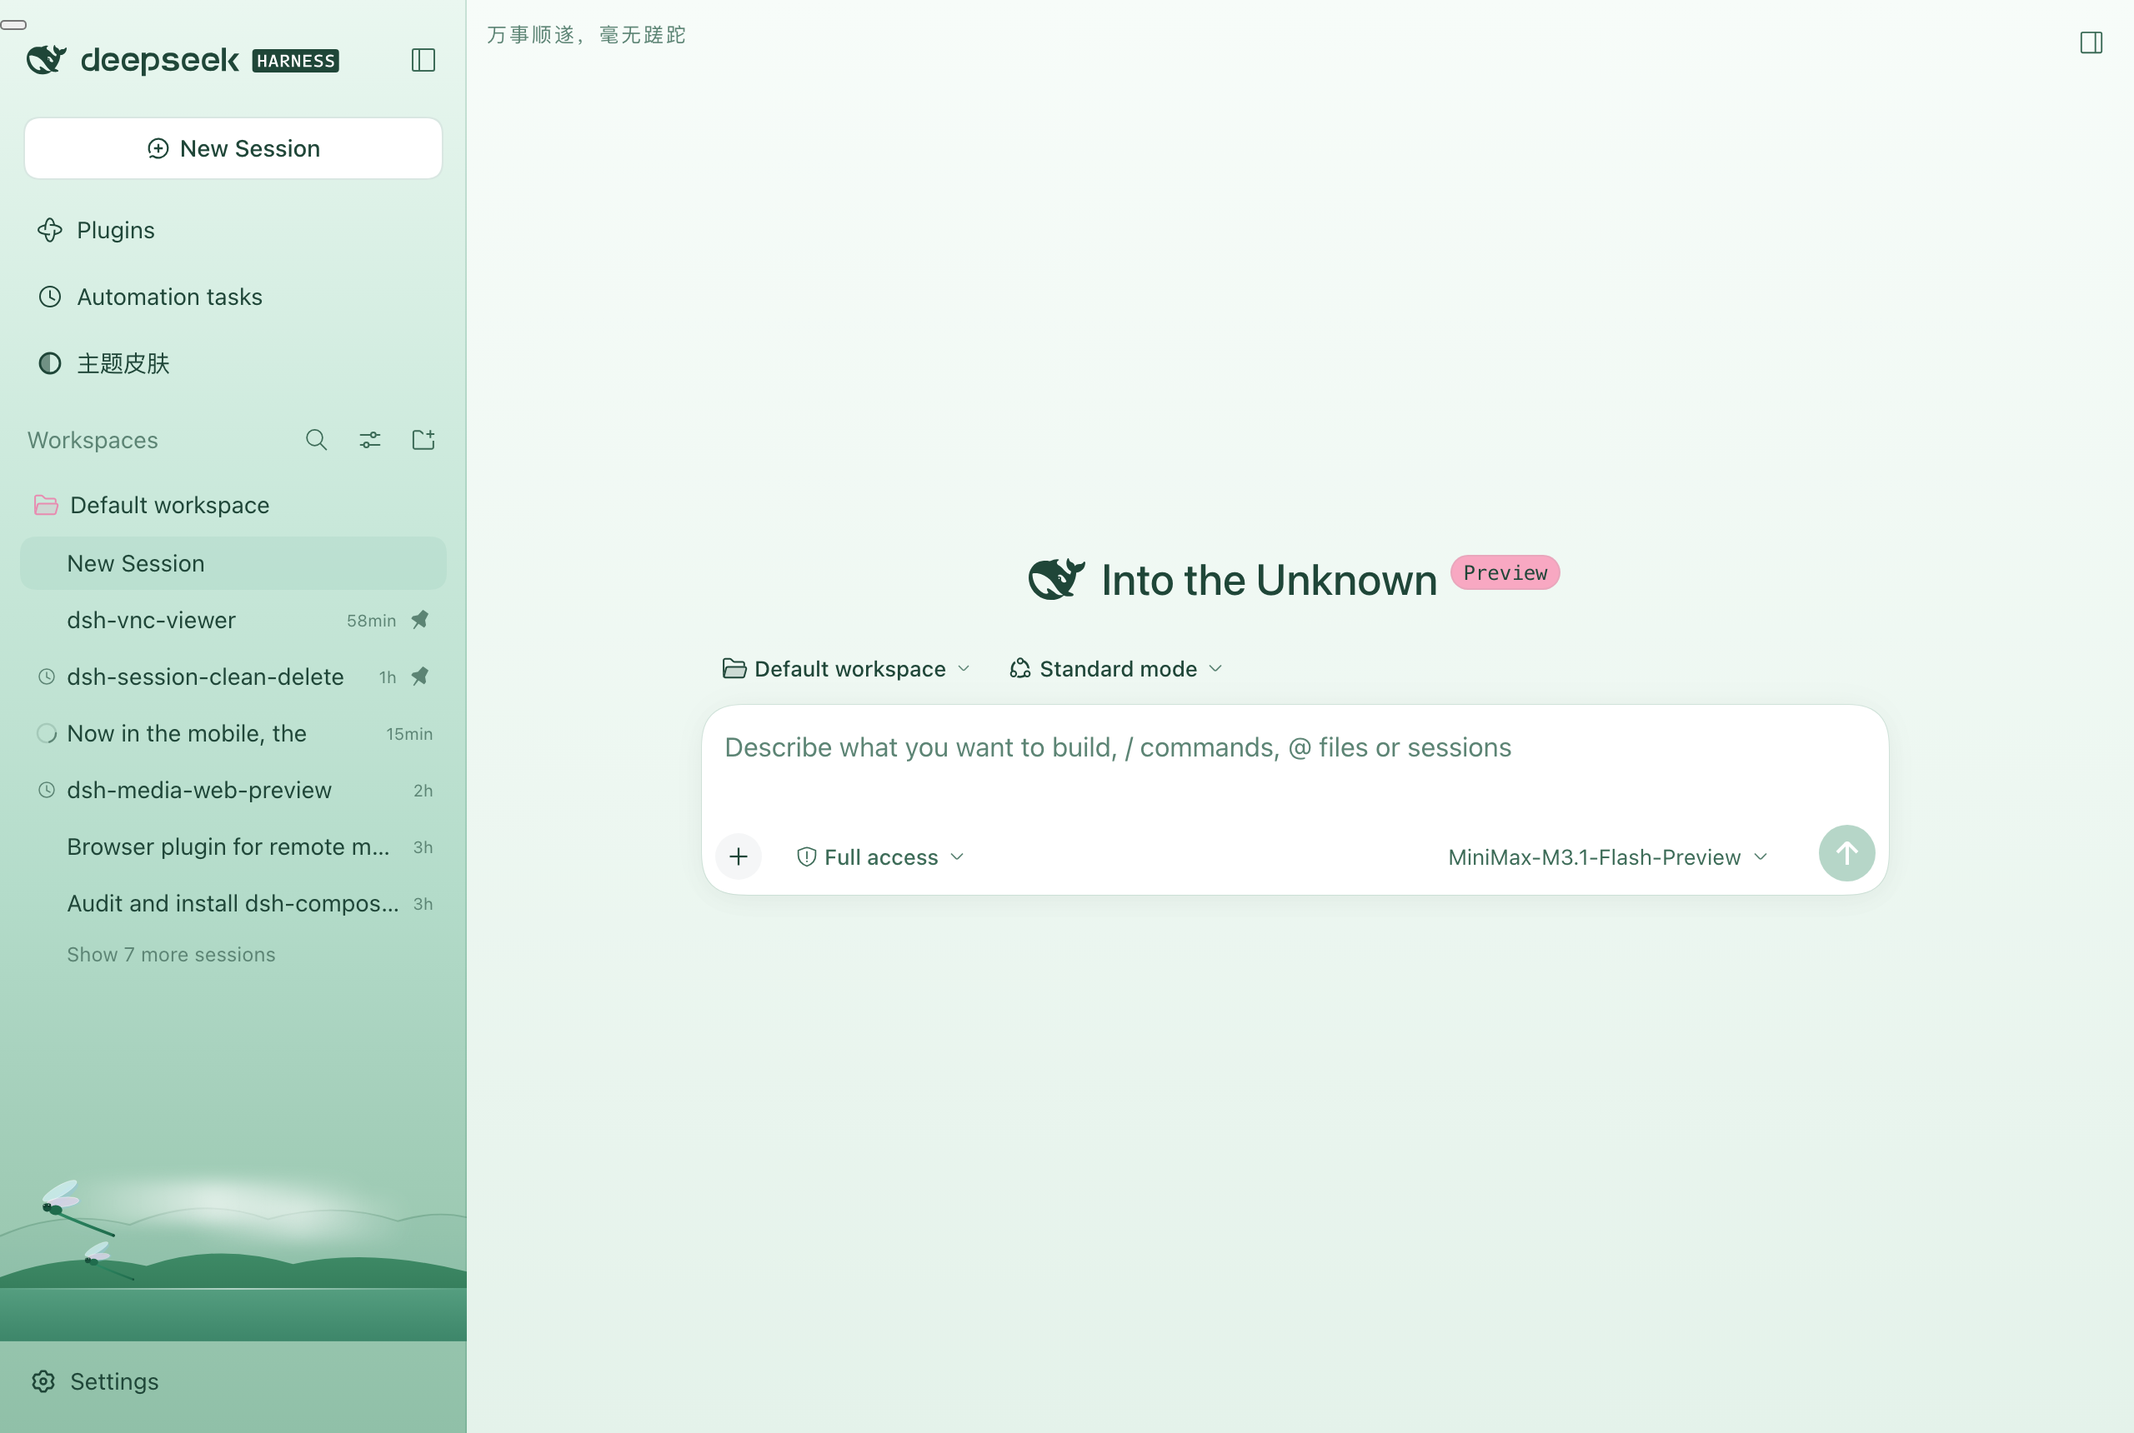
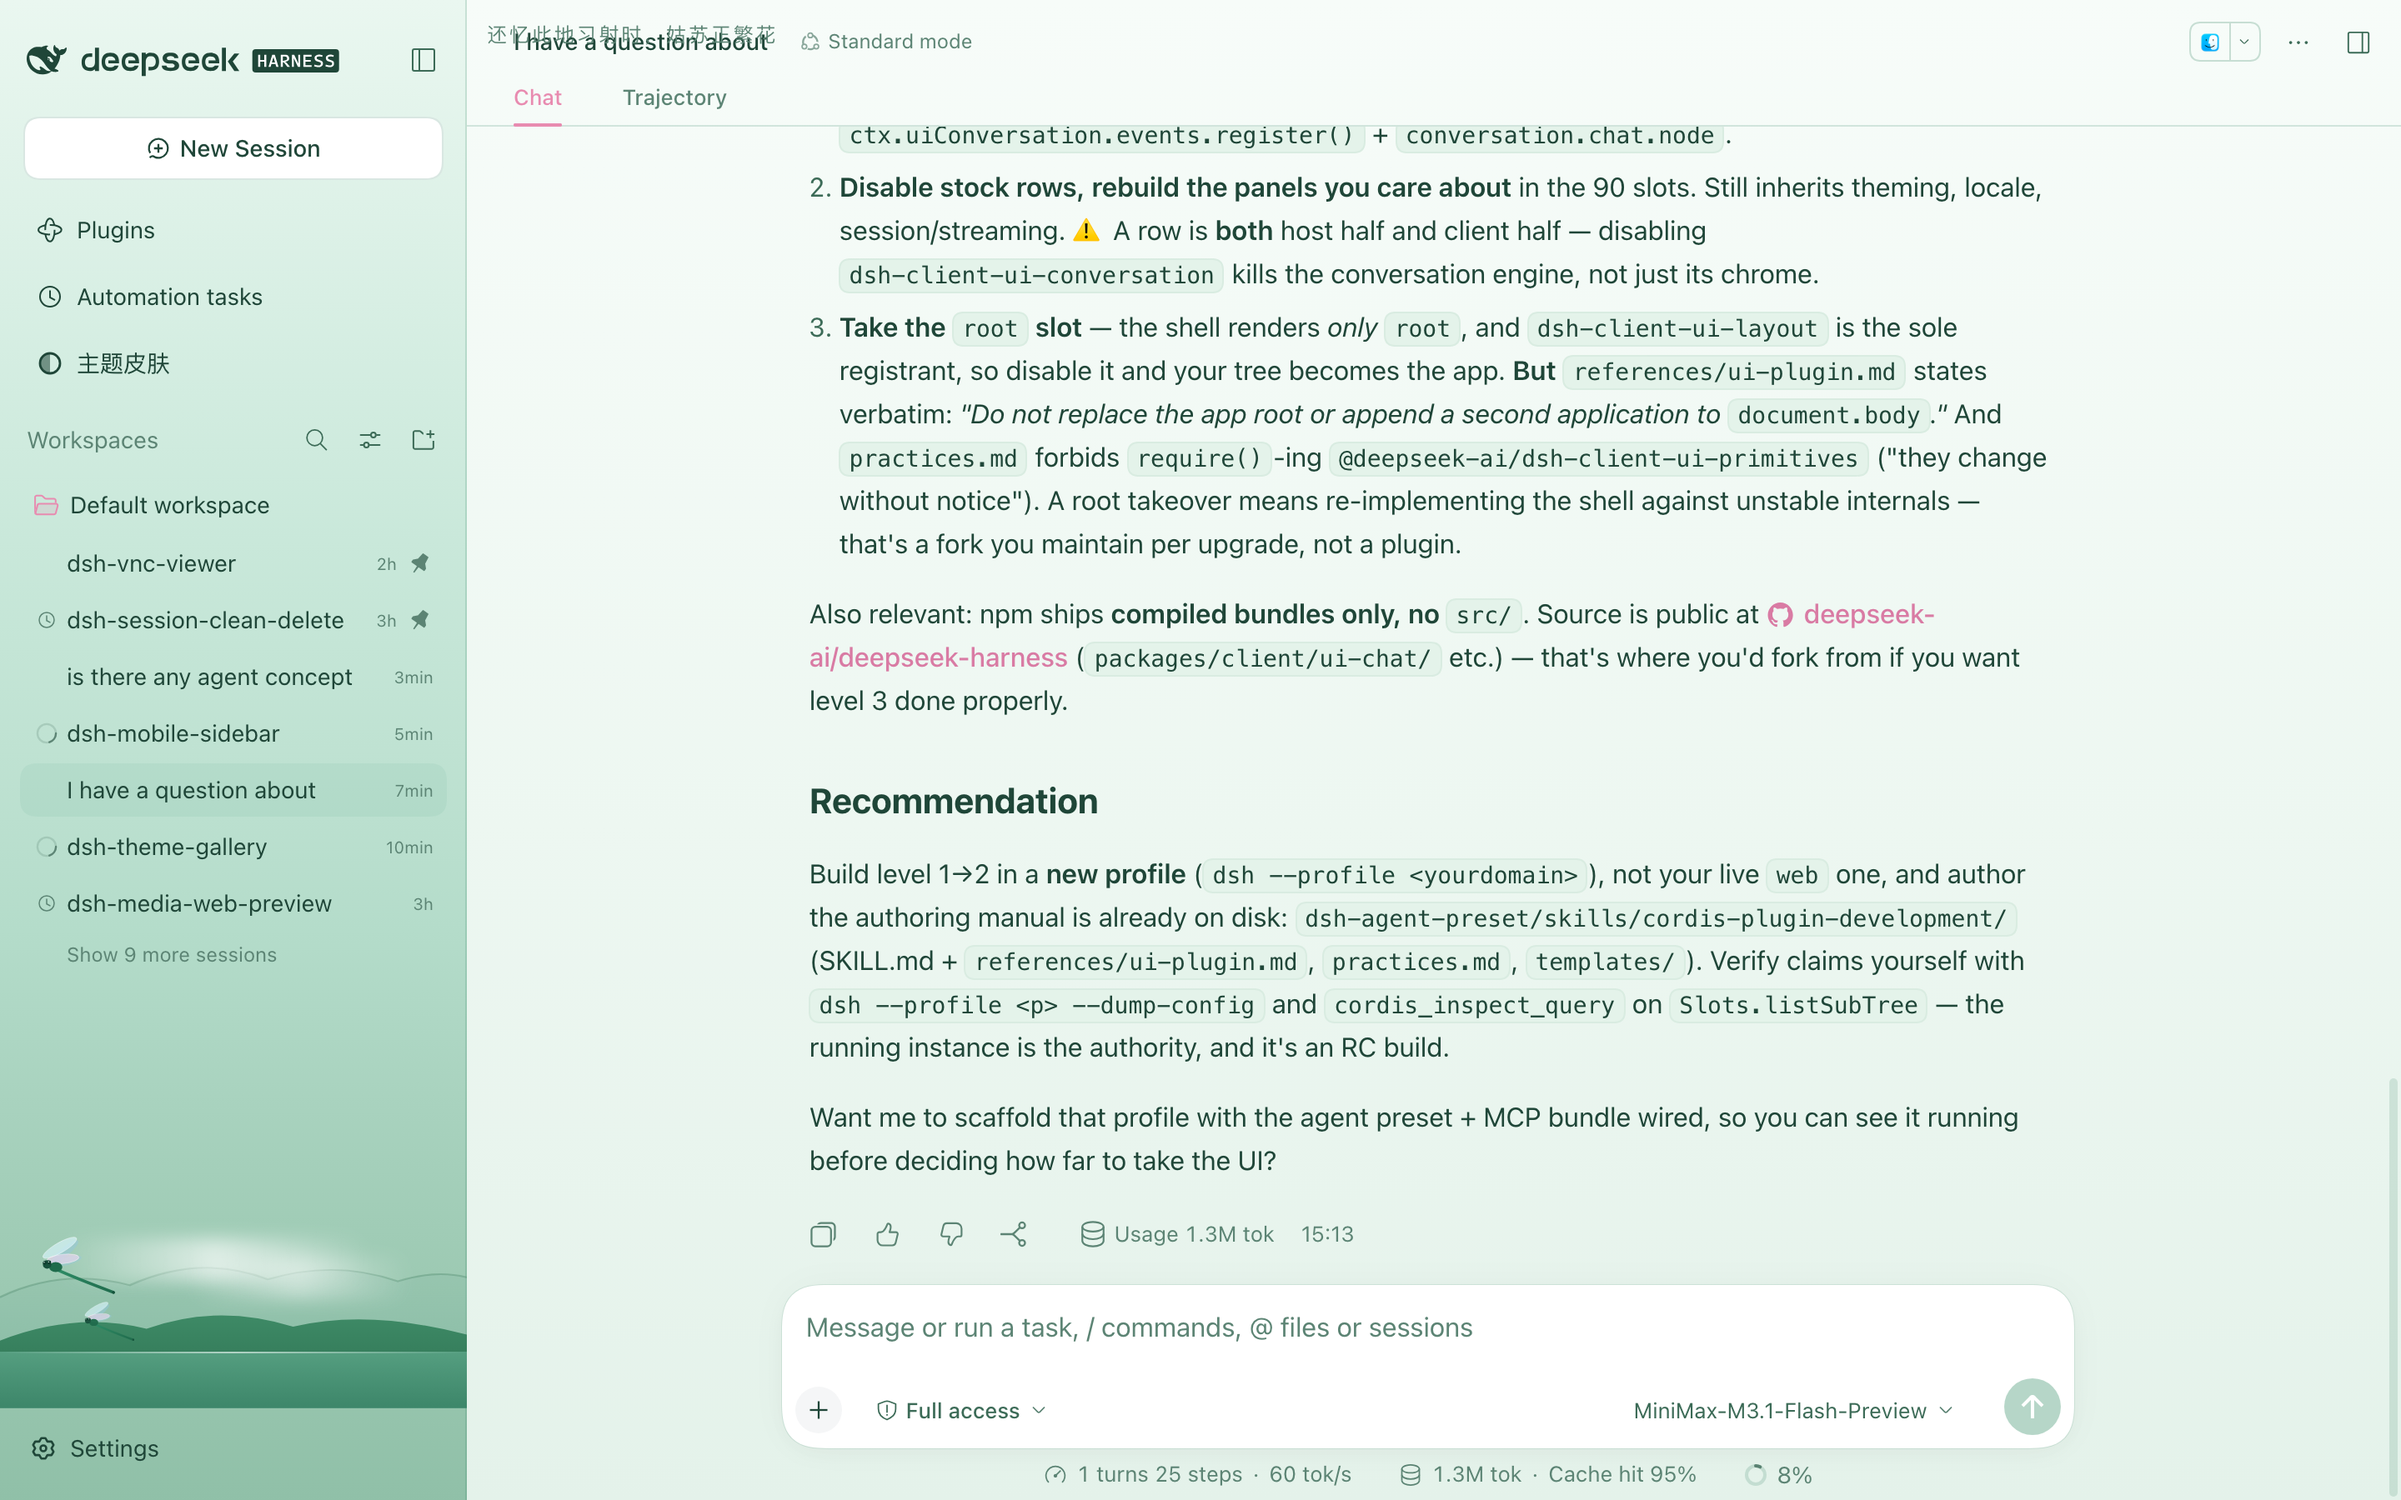
Fix: hide the drawer scrim at every width, not only below the breakpoint
The scrim lives in `shell.overlay`, which the shell mounts at root scope, so
the button is in the DOM on desktop as well. Its `display:none` reset was
written inside the `@media (max-width: 1023px)` block, so above the breakpoint
nothing matched it: the bare `<button>` fell back to the user-agent's
`buttonface` background and collapsed to a ~16x6 grey chip in the frame's
top-left corner. The panel fallback control had the same shape of flaw, hidden
at desktop only by a separate min-width query rather than by a base state.

All three controls the plugin owns are now off by default in a rule outside any
media query, and each narrow rule re-enables exactly one of them with a frame
selector so it outranks the reset on specificity rather than on source order.
The min-width query is gone; there is no width left with no rule.

Verified: at 1440, 1280, 1100 and 1024 px no plugin-owned element is visible
and the frame still solves `280px … 0px`; at 1023 px the conversation header
toggle appears and the track goes to 0px; the drawer still opens and the scrim
still closes it; the panel fallback control still appears on global panels.

diff --git a/lib/client.js b/lib/client.js
@@ -78,6 +78,21 @@ window.__ModuleLoader__.load({
 		const en = { "sidebar.open": "Open sidebar", "sidebar.close": "Close sidebar" };
 
 		const css = [
+			/*
+			 * BASE STATE — everything this plugin owns is off at every width.
+			 *
+			 * `shell.overlay` is always mounted and `conversation.header.leading`
+			 * is root-scoped, so all three controls exist in the DOM on desktop
+			 * too. Their `display:none` resets therefore have to live OUTSIDE
+			 * the narrow media query. A reset scoped to `max-width` only hides
+			 * below the breakpoint: above it the bare `<button>` falls back to
+			 * the UA's `buttonface` background and collapses to a ~16x6 grey chip
+			 * in the frame's top-left corner — which is exactly the artefact this
+			 * comment exists to prevent. Each narrow rule below then re-enables
+			 * one control, and each is prefixed with the frame selector so it
+			 * outranks these resets on specificity rather than on source order.
+			 */
+			`[${SCRIM_ATTR}],[${FAB_ATTR}],[${BUTTON_ATTR}]{display:none}`,
 			`@media (max-width:${NARROW_MAX}px){`,
 			/* Only the FIRST track is zeroed; the centre and right tracks are
 			   whatever ui-layout solved, republished through --${COLS_VAR}. */
@@ -95,13 +110,13 @@ window.__ModuleLoader__.load({
 			`[${FRAME_ATTR}]:not([data-sidebar-collapsed])>[${SIDEBAR_ATTR}]{position:relative;z-index:30;width:min(78vw,300px);border-right:.5px solid var(--dsw-alias-border-l3);box-shadow:0 8px 32px rgb(0 0 0/.25);animation:dshMobileSidebarIn .18s var(--ds-ease-in-out)}`,
 			/* The sidebar root carries its own inline width; the drawer sets it. */
 			`[${FRAME_ATTR}]:not([data-sidebar-collapsed])>[${SIDEBAR_ATTR}]>[data-slot]>*{width:100%!important}`,
-			/* Tap anywhere outside the drawer to close it. */
-			`[${SCRIM_ATTR}]{display:none}`,
+			/* Tap anywhere outside the drawer to close it. This is the only rule
+			   in the stylesheet that ever shows the scrim. */
 			`[${FRAME_ATTR}]:not([data-sidebar-collapsed]) [${SCRIM_ATTR}]{display:block;position:absolute;z-index:25;inset:0;margin:0;padding:0;border:0;background:rgb(0 0 0/.34);cursor:pointer;-webkit-tap-highlight-color:transparent}`,
 			/* Dragging a drawer's edge to resize it makes no sense on a phone. */
 			`[data-side=sidebar]{display:none!important}`,
 			/* The in-header toggle, only on the Conversation. */
-			`[${BUTTON_ATTR}]{display:inline-flex;margin-right:10px}`,
+			`[${FRAME_ATTR}] [${BUTTON_ATTR}]{display:inline-flex;margin-right:10px}`,
 			/*
 			 * Global panels build their own header and expose no header slot, so
 			 * the toggle falls back to a fixed control over the panel. It steps
@@ -112,14 +127,12 @@ window.__ModuleLoader__.load({
 			 * stylesheet has to own, and an inline value would outrank it. The
 			 * rest is inline so no button-variant rule can repaint it.
 			 */
-			`[${FAB_ATTR}]{display:none}`,
 			`[${FRAME_ATTR}]:not(:has([${BUTTON_ATTR}])) [${FAB_ATTR}]{display:inline-flex}`,
 			/* Every panel heading starts 28px down and 24px in, so the floating
 			   control would sit on its shoulder; give it a lane of its own. */
 			`[${FRAME_ATTR}]:has([${FAB_ATTR}]:not([hidden])) :is([data-plugin-panel]>header,[class*=pageHead],[class*=pageHeading]){padding-inline-start:40px}`,
 			`@keyframes dshMobileSidebarIn{from{transform:translateX(-100%)}to{transform:translateX(0)}}`,
 			`}`,
-			`@media (min-width:${NARROW_MAX + 1}px){[${BUTTON_ATTR}],[${FAB_ATTR}]{display:none}}`,
 			`@media (prefers-reduced-motion:reduce){[${FRAME_ATTR}]:not([data-sidebar-collapsed])>[${SIDEBAR_ATTR}]{animation:none}}`,
 		].join("");
 
